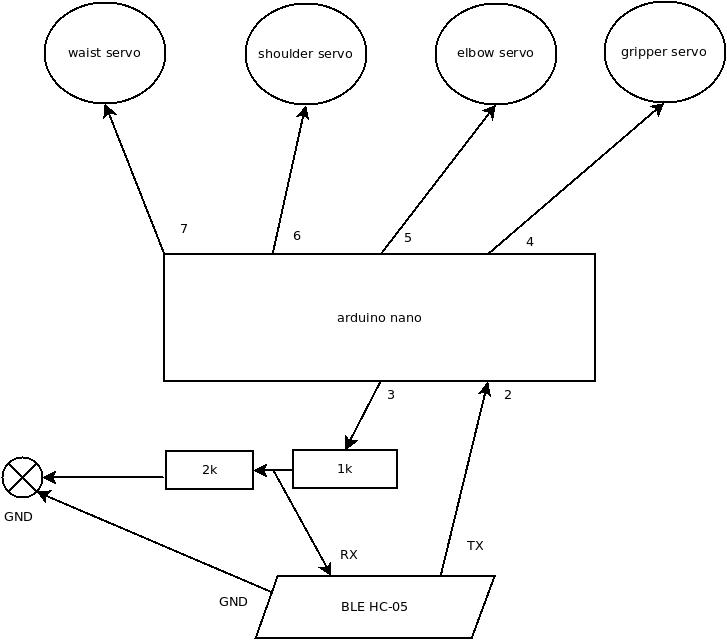
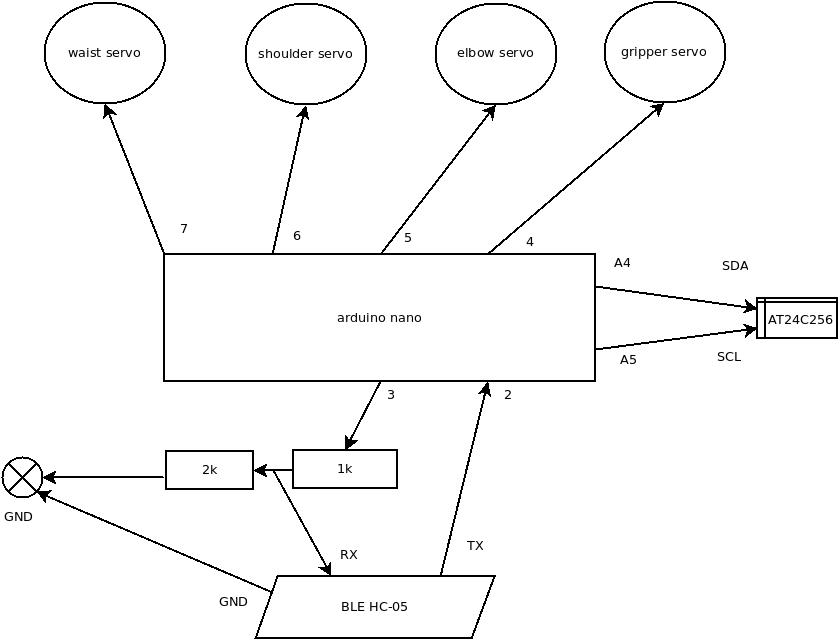
updated documentation

diff --git a/README.md b/README.md
@@ -6,6 +6,9 @@ The platform is from [romanian site](https://www.optimusdigital.ro/en/robot-kits
 
 But is similar with [amazon site](https://www.amazon.com/Raspberry-SNAM1500-Robotic-Mechanical-Arduino/dp/B07T7ML7DF)
 
+AT24C256 I2C external EEPROM.
+
+HC-06 BLE.
 
 ### This supports the following commands:
 
@@ -19,10 +22,15 @@ Those commands could be also used with any bluetooth terminal like Arduino Bluet
 - dxx# delay in miliseconds
 
 #### advanced commands :
-- S<basic_command> save the command for later use
+- S<basic_command> save the command for later use if is direct mode it will write to external EEPROM otherwise into local memory
 - Rf# run the commands in the forward order (in the send order)
 - Rr# run the commands in the reverse order
 - C# clear all saved commands
+- Ed# set direct mode (to write to external EEPROM)
+- ED# set direct loop mode (to execute commands from EEPROM forward and then reverse)
+- Ea# write all commands from internal memory to external EEPROM
+- El# set load from EEPROM at startup into internal memory
+- EL# set load mode and loop mode
 
 ### Logical connections
 
